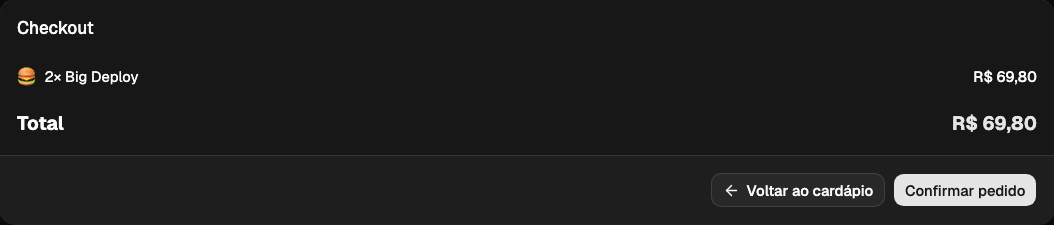
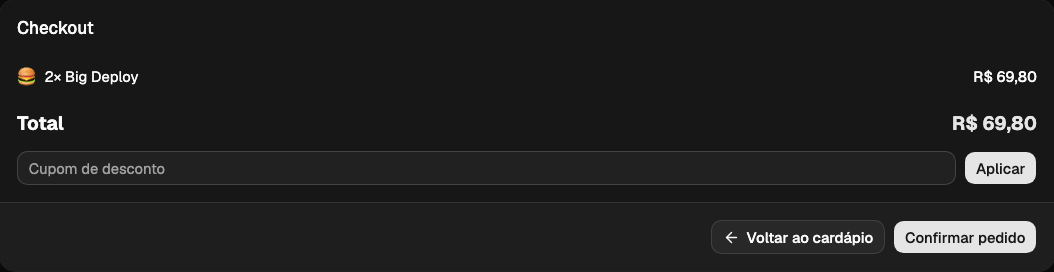
feat: wire coupon field in Checkout
SEXTOU and PRIMEIROPR apply on the checkout total. Confirm uses
the discounted amount. Empty cart never reaches the coupon field.

diff --git a/src/components/Checkout.tsx b/src/components/Checkout.tsx
@@ -1,20 +1,26 @@
-import { useMemo } from 'react'
-import { ArrowLeft, CircleCheck } from 'lucide-react'
+import { useMemo, useState } from 'react'
+import { ArrowLeft, CircleCheck, X } from 'lucide-react'
 import { Button } from '@/components/ui/button'
 import { Card, CardContent, CardFooter, CardHeader, CardTitle } from '@/components/ui/card'
+import { Input } from '@/components/ui/input'
 import { agruparPedido } from '@/lib/agruparPedido'
+import { aplicarCupom } from '@/lib/aplicarCupom'
 import { formatarPreco } from '@/lib/formatar'
 import type { Lanche } from '@/types/lanche'
 
 interface CheckoutProps {
   pedido: Lanche[]
   onVoltar: () => void
-  onConfirmar: () => void
+  onConfirmar: (totalFinal: number) => void
 }
 
 export function Checkout({ pedido, onVoltar, onConfirmar }: CheckoutProps) {
+  const [codigoDigitado, setCodigoDigitado] = useState('')
+  const [codigoAplicado, setCodigoAplicado] = useState<string | null>(null)
+  const [erro, setErro] = useState<string | null>(null)
+
   const itens = useMemo(() => agruparPedido(pedido), [pedido])
-  const total = useMemo(
+  const subtotal = useMemo(
     () => itens.reduce((soma, item) => soma + item.subtotal, 0),
     [itens]
   )
@@ -22,6 +28,39 @@ export function Checkout({ pedido, onVoltar, onConfirmar }: CheckoutProps) {
     () => new Map(pedido.map((lanche) => [lanche.id, lanche.emoji])),
     [pedido]
   )
+
+  const resultadoAplicado = useMemo(() => {
+    if (!codigoAplicado) return null
+    if (pedido.length === 0 || subtotal <= 0) return null
+    const resultado = aplicarCupom(subtotal, codigoAplicado)
+    return resultado.ok ? resultado : null
+  }, [codigoAplicado, pedido.length, subtotal])
+
+  const totalFinal = resultadoAplicado?.totalFinal ?? subtotal
+
+  function handleAplicar() {
+    if (pedido.length === 0 || subtotal <= 0) {
+      setErro('Pedido vazio')
+      setCodigoAplicado(null)
+      return
+    }
+
+    const resultado = aplicarCupom(subtotal, codigoDigitado)
+    if (!resultado.ok) {
+      setErro(resultado.erro)
+      setCodigoAplicado(null)
+      return
+    }
+
+    setCodigoAplicado(resultado.codigo)
+    setErro(null)
+  }
+
+  function handleRemover() {
+    setCodigoAplicado(null)
+    setErro(null)
+    setCodigoDigitado('')
+  }
 
   return (
     <Card data-testid="tela-checkout">
@@ -44,12 +83,57 @@ export function Checkout({ pedido, onVoltar, onConfirmar }: CheckoutProps) {
             </li>
           ))}
         </ul>
+
+        {resultadoAplicado && (
+          <div
+            className="flex items-center justify-between text-sm text-muted-foreground"
+            data-testid="linha-desconto"
+          >
+            <span>Desconto ({resultadoAplicado.codigo})</span>
+            <span className="font-medium text-emerald-500">
+              −{formatarPreco(resultadoAplicado.desconto)}
+            </span>
+          </div>
+        )}
+
         <div className="flex items-center justify-between text-lg font-bold">
           <span>Total</span>
           <span className="text-primary" data-testid="total-checkout">
-            {formatarPreco(total)}
+            {formatarPreco(totalFinal)}
           </span>
         </div>
+
+        <div className="flex flex-col gap-2 sm:flex-row sm:items-center">
+          <Input
+            aria-label="Cupom de desconto"
+            placeholder="Cupom de desconto"
+            value={codigoDigitado}
+            onChange={(evento) => setCodigoDigitado(evento.target.value)}
+            disabled={!!codigoAplicado}
+            data-testid="input-cupom"
+          />
+          {codigoAplicado ? (
+            <Button
+              type="button"
+              variant="outline"
+              onClick={handleRemover}
+              data-testid="botao-remover-cupom"
+            >
+              <X className="size-4" />
+              Remover
+            </Button>
+          ) : (
+            <Button type="button" onClick={handleAplicar} data-testid="botao-aplicar-cupom">
+              Aplicar
+            </Button>
+          )}
+        </div>
+
+        {erro && (
+          <p className="text-sm text-destructive" data-testid="erro-cupom" role="alert">
+            {erro}
+          </p>
+        )}
       </CardContent>
       <CardFooter className="flex flex-col gap-2 sm:flex-row sm:justify-end">
         <Button
@@ -61,7 +145,11 @@ export function Checkout({ pedido, onVoltar, onConfirmar }: CheckoutProps) {
           <ArrowLeft className="size-4" />
           Voltar ao cardápio
         </Button>
-        <Button type="button" onClick={onConfirmar} data-testid="botao-confirmar-pedido">
+        <Button
+          type="button"
+          onClick={() => onConfirmar(totalFinal)}
+          data-testid="botao-confirmar-pedido"
+        >
           Confirmar pedido
         </Button>
       </CardFooter>

diff --git a/src/components/CardapioSearch.tsx b/src/components/CardapioSearch.tsx
@@ -53,11 +53,11 @@ export function CardapioSearch() {
     setPedido((atual) => [...atual, lanche])
   }, [])
 
-  const confirmarPedido = useCallback(() => {
-    setTotalConfirmado(total)
+  const confirmarPedido = useCallback((totalFinal: number) => {
+    setTotalConfirmado(totalFinal)
     setPedido([])
     setTela('confirmado')
-  }, [total])
+  }, [])
 
   if (tela === 'checkout') {
     return (
